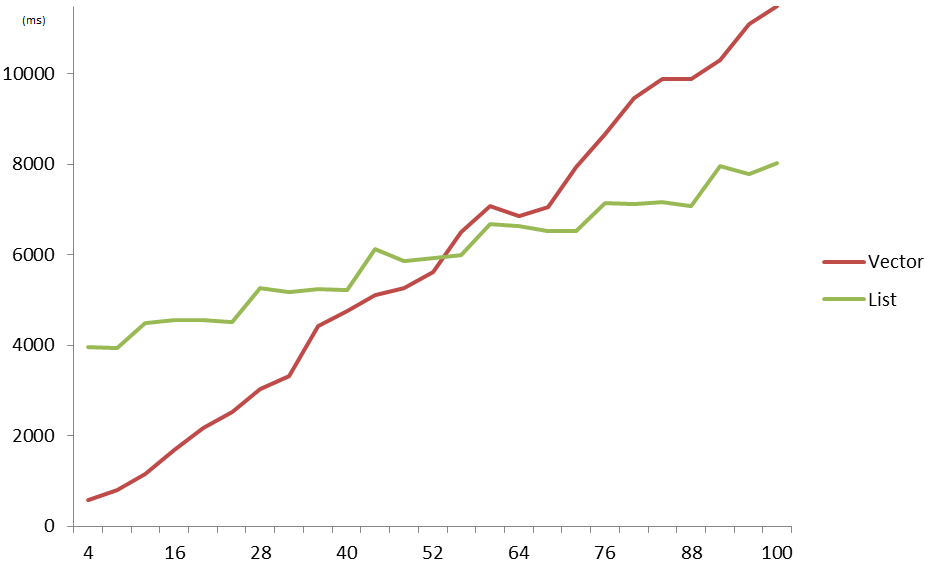
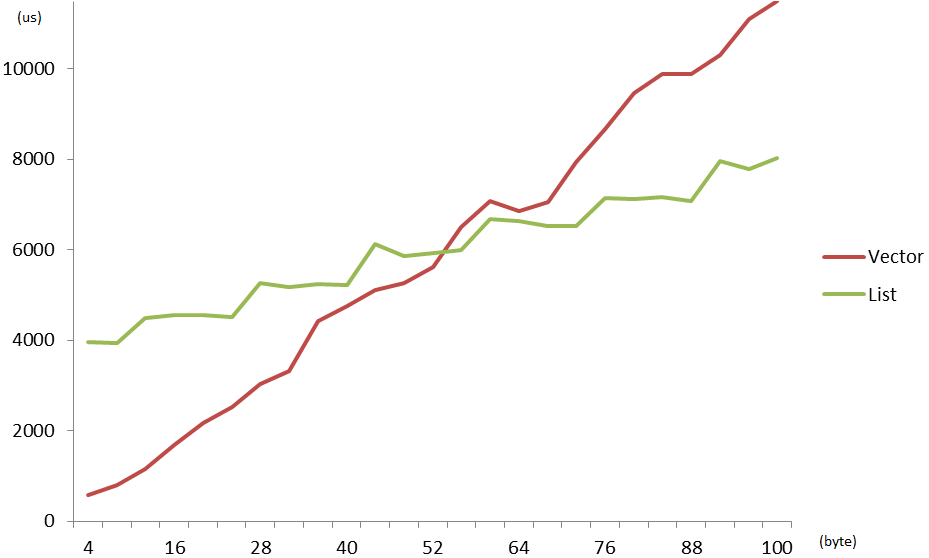
New article and compressed images

diff --git a/public/code/list_vec/main.cpp b/public/code/list_vec/main.cpp
@@ -1,0 +1,57 @@
+#include <iostream>
+#include <list>
+#include <vector>
+#include <cstdint>
+#include <cmath>
+
+#include "time.hpp"
+
+#define N 100000
+
+using namespace std;
+
+struct block {
+	int32_t z[M];
+};
+
+typedef struct block type;
+
+int main() {
+	Time t;
+	int t1 = 0;
+	int t2 = 0;
+	vector<type> v;
+	list<type> l;
+
+	t.start();
+	for (int i = 0; i < N; ++i) {
+		type r;
+		v.push_back({r});
+	}
+
+	t.set();
+	t1 = t.lastDiff();
+
+	for (int i = 0; i < N; ++i) {
+		type r;
+		l.push_back({r});
+	}
+
+	t.set();
+	t2 = t.lastDiff();
+
+	#ifndef ANALYSIS
+		cout << "Time" << endl;
+		cout << "t1: " << t1 << " t2: " << t2 << endl;
+		cout << "Memory" << endl;
+		cout << "t1: " << v.capacity()*sizeof(type) << " t2: " << (16+sizeof(type))*N << endl;
+	#else
+		cout << sizeof(type) << " " << t1 << " " << t2 << " ";
+		int aux = 8 * ceil(sizeof(type)/8.0);
+		cout << v.capacity()*sizeof(type) << " " << l.size()*(16+aux) << endl;
+	#endif
+
+	//To avoid too much compiler optimization
+	int useless = v[v.size()-1].z[0] + l.back().z[0];
+	return useless;
+}

diff --git a/public/code/list_vec/time.hpp b/public/code/list_vec/time.hpp
@@ -1,0 +1,36 @@
+#include <chrono>
+
+using namespace std::chrono;
+
+class Time {
+	private:
+		time_point<high_resolution_clock> startPoint;
+		time_point<high_resolution_clock> lastPoint;
+		time_point<high_resolution_clock> currentPoint;
+
+	public:
+		void start();
+		void set();
+		long unsigned int diff();
+		long unsigned int lastDiff();
+};
+
+void Time::start() {
+	startPoint = high_resolution_clock::now();
+	currentPoint = startPoint;
+	lastPoint = startPoint;
+}
+
+void Time::set() {
+	lastPoint = currentPoint;
+	currentPoint = high_resolution_clock::now();
+}
+
+
+long unsigned int Time::diff() {
+	return duration_cast<nanoseconds>(currentPoint-startPoint).count()/1000;
+}
+
+long unsigned int Time::lastDiff() {
+	return duration_cast<nanoseconds>(currentPoint-lastPoint).count()/1000;
+}

diff --git a/_posts/2017-06-29-list_vs_vector.md b/_posts/2017-06-29-list_vs_vector.md
@@ -1,0 +1,107 @@
+---
+layout: post
+title: List vs Vector: A performance comparison
+---
+## Introduction
+I would dare to say that <a href="https://en.wikipedia.org/wiki/Linked_list">linked lists</a> and <a href="https://en.wikipedia.org/wiki/Array_data_structure">vectors</a> are the most widely used data structures. Supposedly, we all know which one is better of each task so we can choose wisely. However, the reasoning for choosing a data structure are mostly based in the famous <a href="https://en.wikipedia.org/wiki/Big_O_notation">Big-O notation</a>. Unfortunately, this notation doesn't consider the details of computers so it could lead us astray.
+
+
+In this article, I am going to compare the performance of linked lists against vectors when we want to store elements in order of insertion (*<a href="http://www.cplusplus.com/reference/vector/vector/push_back/">push_back</a>*). This is one of the few cases where I consider linked lists to be a good choice. I won't cover random insertion and elimination because there is no doubt about the poor performance of vectors in that case.
+
+
+I can recommend lots of comparisons like <a href="https://baptiste-wicht.com/posts/2012/12/cpp-benchmark-vector-list-deque.html">this</a> one comparing the performance of different data structures with respect to the number of elements. However, this doesn't show us the reasons and the results that we are looking for. Instead, I will try to explain the aspects that can affect their performance and how to choose the best option according to these factors, avoiding easy conclusions.
+
+<br/>
+## Thinking
+Let's start thinking about which results should be expected. 
+
+
+### Algorithmics
+If we have a double linked list or a linked list with a pointer to the end of the list the cost of inserting an element at the end will be constant. There is no doubt about it; this process will be always the same.
+
+
+Nevertheless, this is quite different in vectors. If we are using arrays, we can't have many chunks of memory connected by pointers, we only can have a big chunk of contiguous memory. This means that if we want to have the same memory occupied as elements are stored we will have to reallocate all the memory in each insertion. However, reallocating has a linear cost that we cannot tolerate in each insertion. However, this problem is well known and vectors usually reserve more memory than it's needed to prevent it. The most common strategy once the array is full is to reserve a new array twice the capacity. Obviously, this will affect the memory usage of our program but it's something that we will discuss later.
+
+
+Therefore we can suppose that the performance of lists will be better than vectors, because the latter has a worse case linear although it occurs only when is full, but hey, lists doesn't have this drawback.
+
+<br/>
+### Architecture
+As I said before, theory isn't everything. Modern computers performance depends on many factors. Some of the most important are <a href="https://en.wikipedia.org/wiki/CPU_cache#Cache_miss">cache misses</a> and <a href="https://en.wikipedia.org/wiki/Locality_of_reference">space locality</a>. If you are not familiar with this topic I recommend you to take look at <a href="https://stackoverflow.com/a/16699282">this</a> explanation. But basically, what we look for it to have as much *useful* information per memory block as possible. And don't overlook the word *useful*.
+
+
+When we use arrays is well known that all the data is contiguous and therefore no pointers are required. This means that a memory block will be completely filled with the elements of the array.
+
+
+However, when we use linked lists we need to store pointers next to each element of the list. Therefore, in a block of memory we will find pointers and elements. Unfortunately, these pointers will occupy memory that could be filled by more elements. The effect that this will have in performance will depend on the size of the elements.
+
+
+In most 64 bits computers, pointers occupy 8 bytes of memory. That is quite a lot. If you are using a double linked list like C++ STL <list> you will be using 16 bytes for pointers per element. Thus if you store in each node 1 MB you won't notice the size of pointers and it won't matter when taking a memory block. However, the common case is having small size elements, because when we work with big amounts of data we tend to use pointers. For example when we have a linked list of strings, we don't store all the chars, just a pointer to the char array.
+
+
+Hence linked lists don't look so nice when working with small elements, because even guaranteeing space locality the amount of useful data that we can store in a memory block is limited by the memory occupied by pointers.
+
+<br/>
+## Performance
+As we have seen, is not clear what results should be expected. The benefits of vectors related with space locality are clear, but we don't know how will affect the cost of reallocating all the elements when it's full.
+
+
+In our first test we will compare the time required to store 1,100,000 8 bytes elements in a list and a vector. This number has been specifically chosen to unsure that we will reallocate the vector almost just after finishing because is a bit more than 2^20.
+
+<img src="https://fylux.github.io/public/img/list_vec/worst_case.png" width="100%">
+
+Undoubtedly, the performance of vectors in this case is way better than lists.
+
+Although I could have stopped here, I wanted to see how this evolves when changing the size of the elements stored. (Inserting 100,000 elements)
+
+<img src="https://fylux.github.io/public/img/list_vec/time.png" width="100%">
+
+This is such as an interesting graph. It's telling us which data structure is better depending on the size of the elements. As expected the performance of the vector decreases because of the cost of reallocating so much data, while the performance of the linked list with respect to the vector improve as the element's size increases.
+
+<br/>
+## Memory usage
+Although I've focused in analyzing the performance of these structures, I think that we should also take a look at the memory usage. Unlike speed, memory usage is way more clear how will it behave. Hereinafter we will refer to the number of elements as *n* and to the size of the element as *m*.
+
+
+The size occupied by a double linked list is given by *m* plus two times the size of the pointer. Because the size of the pointer is expected to be 8 bytes, we can ensure that the memory used per element will be at least 16 bytes.
+
+On the other side, the memory occupied by a vector depend on how much memory are we reserving. For this analysis, I'm going to consider the most widely used implementation of vector from C++ STL. This one reserves twice the space required to store the elements. Therefore, the memory used by our vector is given by:
+
+$$
+m \cdot 2^{\lceil{log_2 {n}}\rceil}
+$$
+
+This means that we will be using between *s* and *2s* bytes to store the elements, being *s* the exactly amount of data required to store the information.
+
+Furthermore, we can find which structure will be using less memory for a given element size formulating the following inequality:
+
+$$
+m \cdot 2^{\lceil{log_2 {n}}\rceil} <> n \cdot (16+m) 
+$$
+
+Hence you can find easily which structure will require less memory. I wanted to illustrate this with a graph. We will insert 100,000 elements for different element sizes, to see how memory usage changes.
+
+<img src="https://fylux.github.io/public/img/list_vec/memory.png" width="100%">
+
+What a nice graph. As you can see there is a point where lists start to use less memory than vectors. Not only that, we can easily notice that the point where one structure overtake the other is almost the same point that we saw in the speed graph. Therefore, if you choose the right structure you will not only obtain the best performance but also the lower memory usage.
+
+
+### Padding
+Before concluding, I must say that I've been bitting my tongue along the last paragraphs to avoid complicating the explanation.
+
+You have probably notice the curious stepped form of the curve of list memory usage. The truth is that linked list have one more drawback, which is the padding caused because of memory alignment. I don't intend to explain this problem, but basically, if you are using 8 byte pointers the memory used per element will be always a multiple of 8 even if it should be lower. Therefore, if we store a single-byte char, instead of needing 17 bytes we will need 24 bytes.
+
+
+If you want to dig deeper into this topic you can start <a href="http://www.catb.org/esr/structure-packing/">here</a>.   
+
+<br/>
+## One last thing
+In this article I've worked with memory-contiguous linked lists. However, this won't always be the case. The negative effects of dispersed linked lists will be studied in future articles.
+
+<br/>
+## Conclusion
+After this analysis I guess that there is no doubt about which data structure is better for this particular case. However, I hope that you have not only learned to choose between list and vectors but also discovered which elements may affect the performance of data structures and how to analyze them for your personal purposes.
+
+<br/>
+## Code
+The code used and the tests developed in this article can be found <a href="https://github.com/fylux/fylux.github.io/tree/master/public/code">here</a> as well as the hardware and software used.

diff --git a/public/code/list_vec/readme.md b/public/code/list_vec/readme.md
@@ -1,0 +1,11 @@
+## Hardware
+ - Intel Core i5 M480 2.64 GHz
+ - 4GB RAM DDR3
+ - Crucial MX100 256GB
+
+## Software
+ - Ubuntu 16.04 64 bits 
+ - GCC 5.4.0 -O3
+
+## Usage
+bash test.sh
